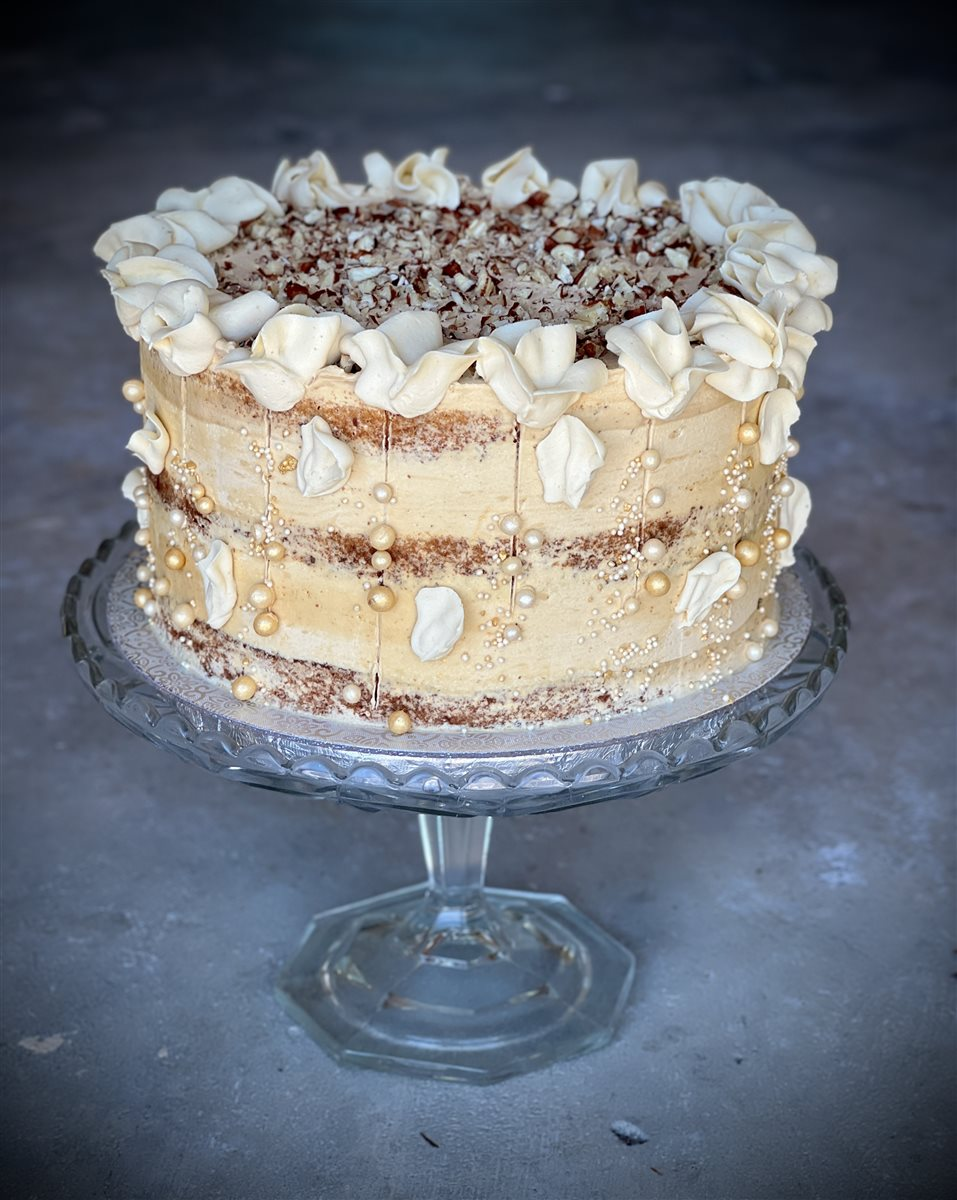
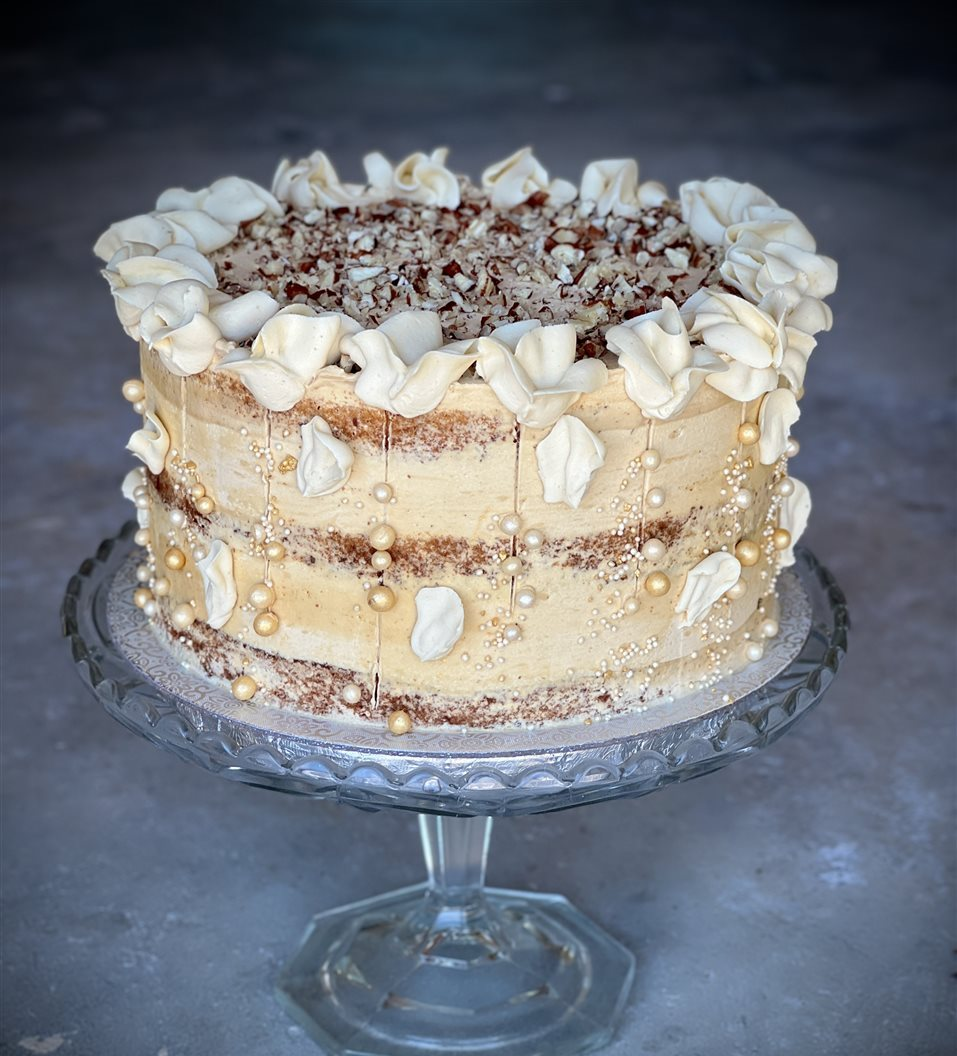
Weekend cakes: re-crop naked caramel to remove concrete floor
Trimmed bottom 12% (144px) of wc-18-naked-caramel.jpg to crop
out the chipped concrete floor beneath the cake stand.
Bumped image version to v=3.

diff --git a/weekend-cakes.html b/weekend-cakes.html
@@ -93,7 +93,7 @@
       <div class="gallery-caption">Chiffon bundt with peach rose wreath</div>
     </div>
     <div class="gallery-item reveal d3">
-      <img src="images/wc-18-naked-caramel.jpg?v=2" alt="Tall naked layered cake with caramel frosting showing exposed sponge layers, gold pearl drips, small meringue rosettes and crushed nut topping, on a crystal glass cake stand" loading="lazy" style="object-position: center top;"/>
+      <img src="images/wc-18-naked-caramel.jpg?v=3" alt="Tall naked layered cake with caramel frosting showing exposed sponge layers, gold pearl drips, small meringue rosettes and crushed nut topping, on a crystal glass cake stand" loading="lazy" style="object-position: center top;"/>
       <div class="gallery-caption">Naked caramel layers with gold pearls</div>
     </div>
     <div class="gallery-item reveal">
